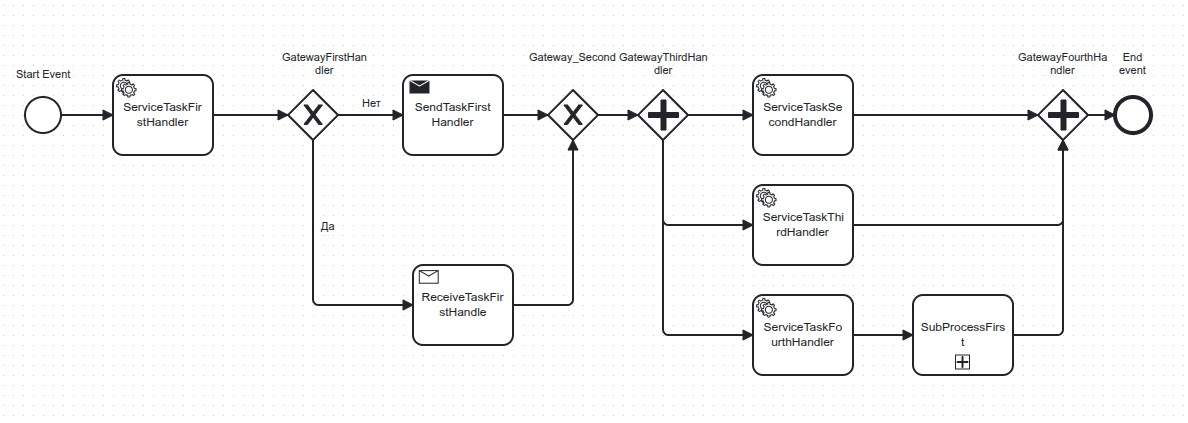
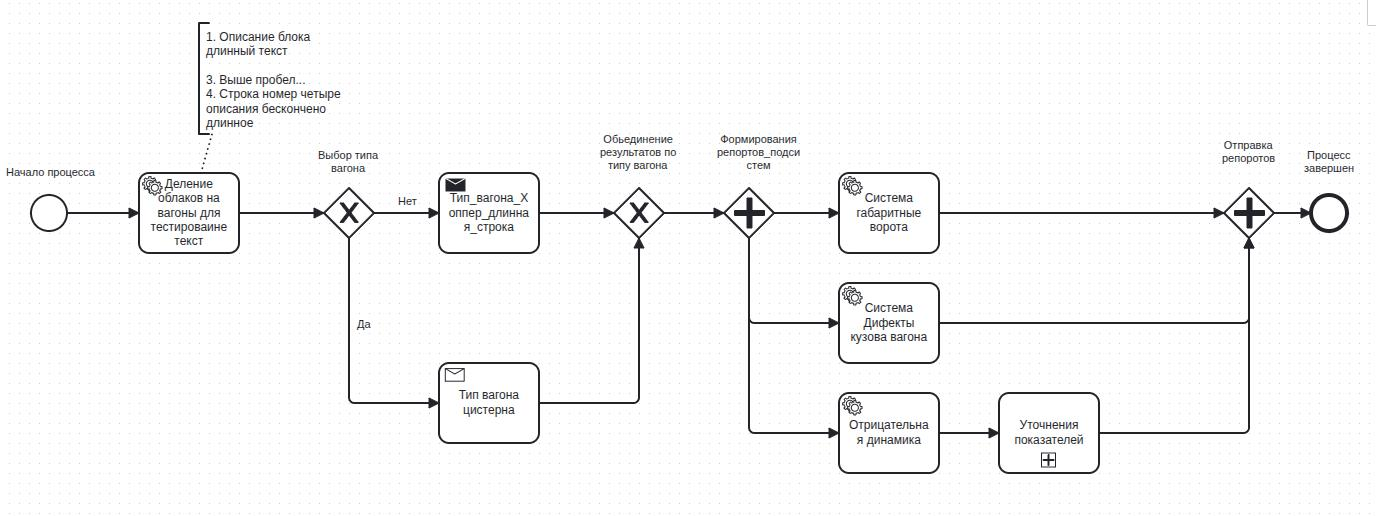
Merge pull request #33 from montekristo1946/Issues/31
#31 добавил документацию.

Pull request: #31 добавил документацию.

diff --git a/Documents/BpmnNanation.md b/Documents/BpmnNanation.md
@@ -21,7 +21,7 @@
 ![plot](./Images/service_task.jpg)<br>
 Требования:
 
-1. Имеет один вход.
+1. Имеет несколько входов.
 2. Имеет один выход.
 
 ## Send Task
@@ -33,7 +33,7 @@
 ![plot](./Images/send_task.jpg)<br>
 Требования:
 
-1. Имеет один вход.
+1. Имеет несколько входов.
 2. Имеет один выход.
 
 ## Receive Task
@@ -45,7 +45,7 @@
 
 Требования:
 
-1. Имеет один вход.
+1. Имеет несколько входов.
 2. Имеет один выход.
 
 ## Exclusive Gateway
@@ -58,8 +58,8 @@
 Требования: <br>
 
 1. На схеме может быть один.
-2. Имеет один вход.
-3. Имеет N количество выходов.
+2. Имеет несколько входов.
+3. Имеет N количество выходов (выходы нужно программировать).
 
 ## Parallel Gateway
 
@@ -71,8 +71,9 @@
 Требования:<br>
 
 1. На схеме должно быть открывающий шлюз и закрывающий (четное число шлюзов).
-2. Выходной шлюз имеет 1 вход и N выходов.
-3. Входной шлюз имеет N входов и 1 выходов.
+2. Входной шлюз имеет 1 вход и N выходов.
+3. Выходной шлюз имеет N входов и 1 выходов.
+4. Шлюз всегда дожидается завершение всех входных Flow.
 
 ## Sub process
 
@@ -82,7 +83,7 @@
 
 Требования:<br>
 
-1. Имеет один вход.
+1. Имеет несколько входов.
 2. Имеет один выход.
 
 
@@ -93,11 +94,19 @@
 ![plot](./Images/end_event.jpg)<br>
 Требования:
 
-1. Один на схеме.
+1. Может быть несколько на схеме.
 2. Имеет один вход.
 
 ## Sequence Flow
 
-Это собственно стрелочка от блока к блоку.
+Это собственно стрелочка от блока к блоку. <br>
+Id flow участвует в программировании geteway <br>
+
+## Text annotation
+
+Аннотация.<br>
+Элемент в логике работы не участвует, только для вывода информации. <br>
+![plot](./Images/text_annotation.jpg)<br>
+
 
 